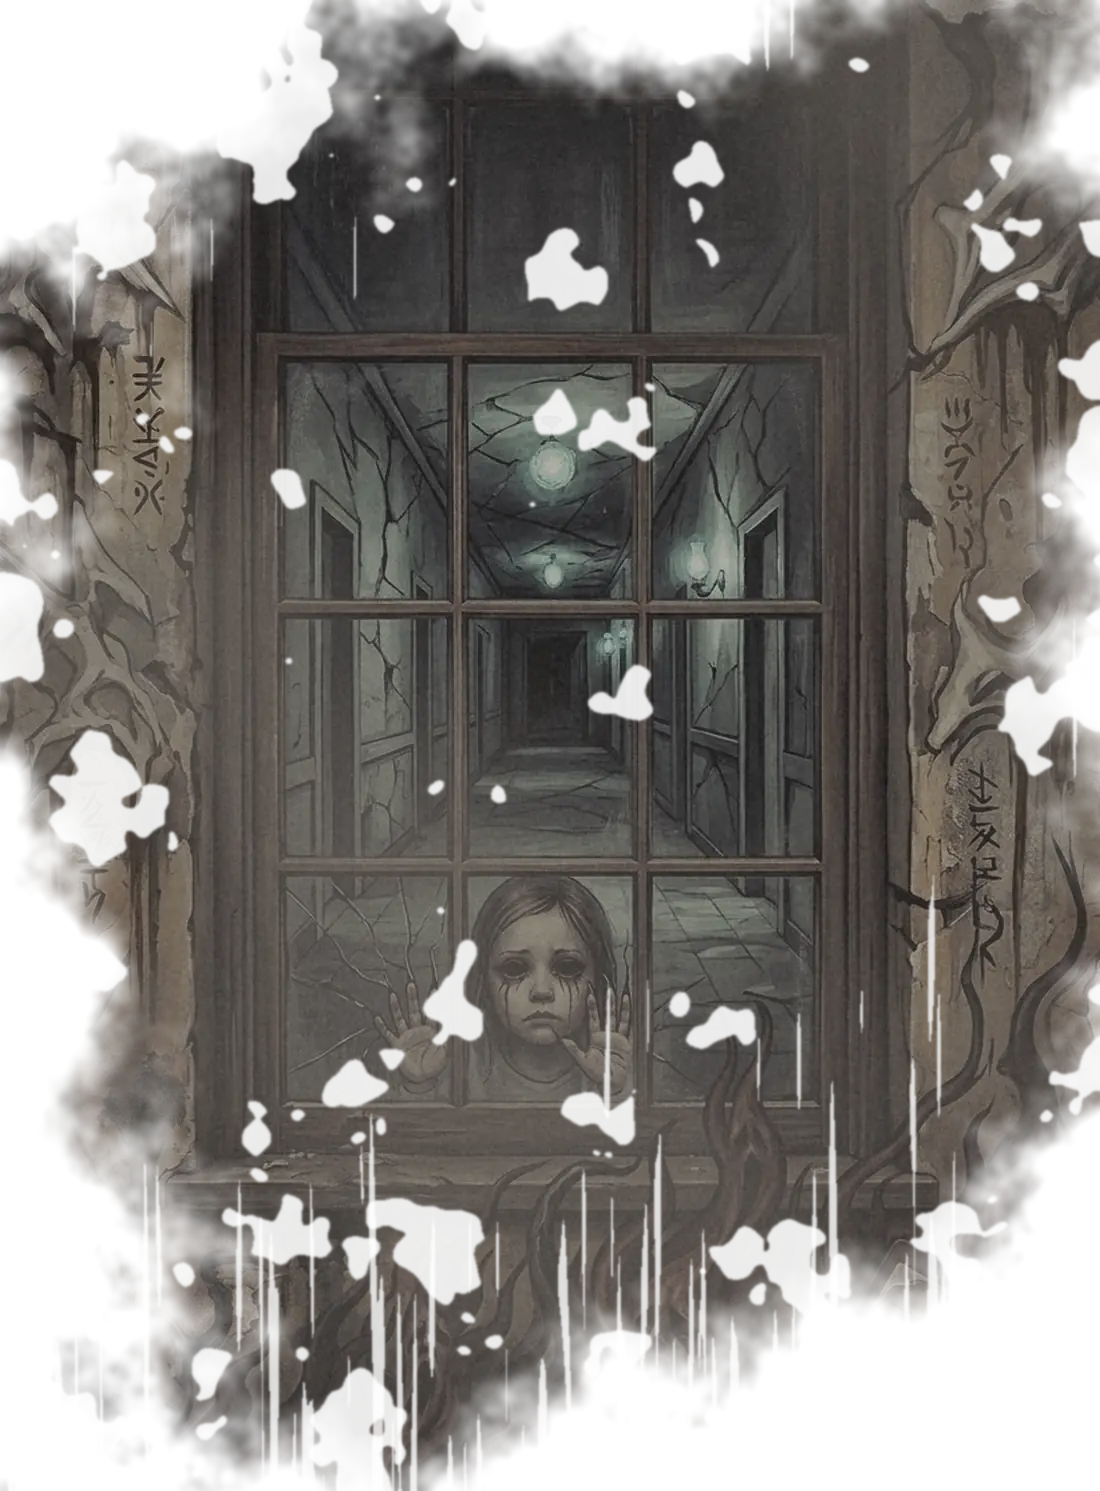
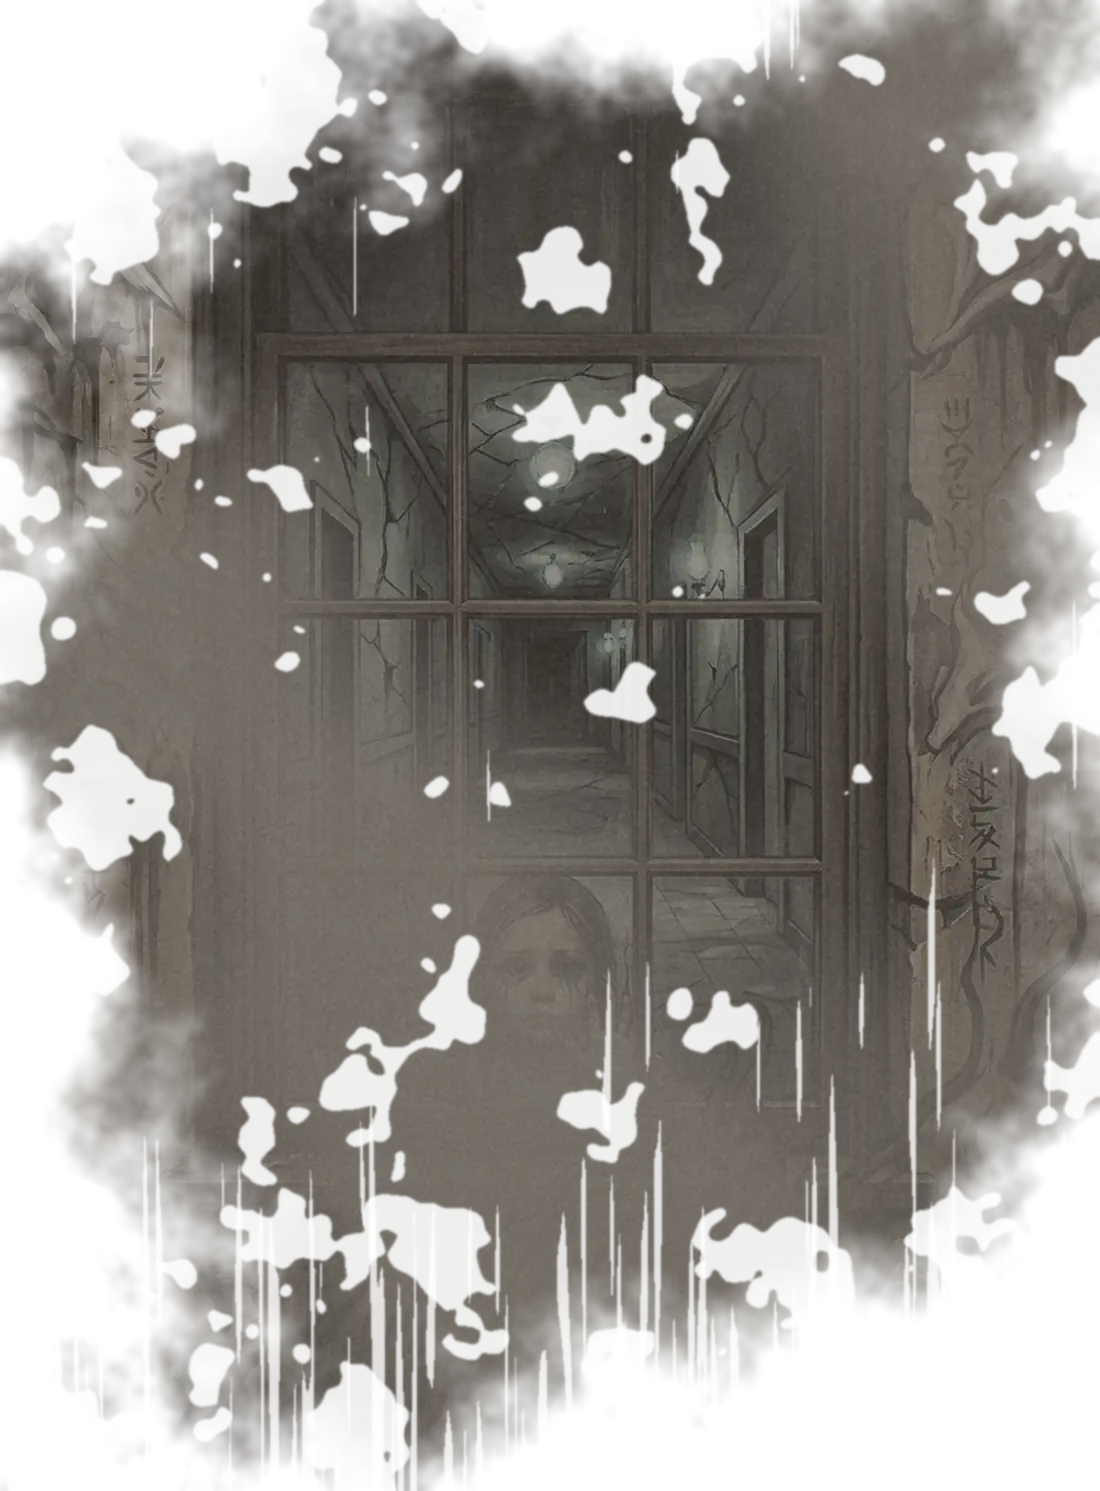
Murale della bambina nel reparto molto piu' consumato
Claude-Session: https://claude.ai/code/session_014dApnh5cQuMdZvTWDcVASP

diff --git a/js/events/ward.js b/js/events/ward.js
@@ -59,7 +59,7 @@ export function createWard({ scene, mats, player, camera, audio, lights, instab,
   const BD = { rebecca: '20/6/97', tommy: '1/11/90', gabriele: '31/12/90', elisa: '2/8/90', alice: '5/9/93' };
   const qn = /^(\d{1,2})-(\d{1,2})-(\d{2})$/.exec(new URLSearchParams(location.search).get('nasc') || '');
   const DATE = qn ? qn[1] + '/' + qn[2] + '/' + qn[3] : BD[PKEY];
-  writingDecals(R.group, [{ img: 'assets/tex/pic_mural_child.webp', aspect: 0.7378, p: [1.758, 1.9, z0 - 6.0], wall: '-x', w: 0.85, rot: 0, a: 0.94, plain: true, glow: 0.2 }]);   // reparto: la bambina alla finestra (la sorella), sulla parete verde sopra le piastrelle
+  writingDecals(R.group, [{ img: 'assets/tex/pic_mural_child.webp', aspect: 0.7378, p: [1.758, 1.9, z0 - 6.0], wall: '-x', w: 0.85, rot: 0, a: 0.9, plain: true, glow: 0.1 }]);   // reparto: la bambina alla finestra (la sorella), sulla parete verde sopra le piastrelle
   if (DATE) { const T = DATE, ta = bloodText(T).aspect; writingDecals(R.group, [{ text: T, aspect: ta, p: [-1.758, 0.64, z0 - 3.0], wall: '+x', w: Math.min(0.72 * ta, 2.4) }]); }
   burnDecals(R.group, [{ k: 'wall', p: [-hw + 0.014, 1.4, z0 - 8], wall: '+x', w: 3.4, h: 2.6, a: 0.5 }, { k: 'wall', p: [hw - 0.014, 1.3, z0 - 14.5], wall: '-x', w: 3.0, h: 2.4, a: 0.45, flip: true }, { k: 'floor', p: [0.3, 0.012, z0 - 16], w: 2.0, h: 1.6, rot: 1.0, a: 0.6 }]);   // corridoio: vicino a dove e' partito il fuoco, bruciature medie
   bloodDecals(R.group, [{ k: 'A', p: [-hw + 0.012, 1.1, z0 - 12.2], wall: '+x', h: 0.3, rot: 0.1 }]);
